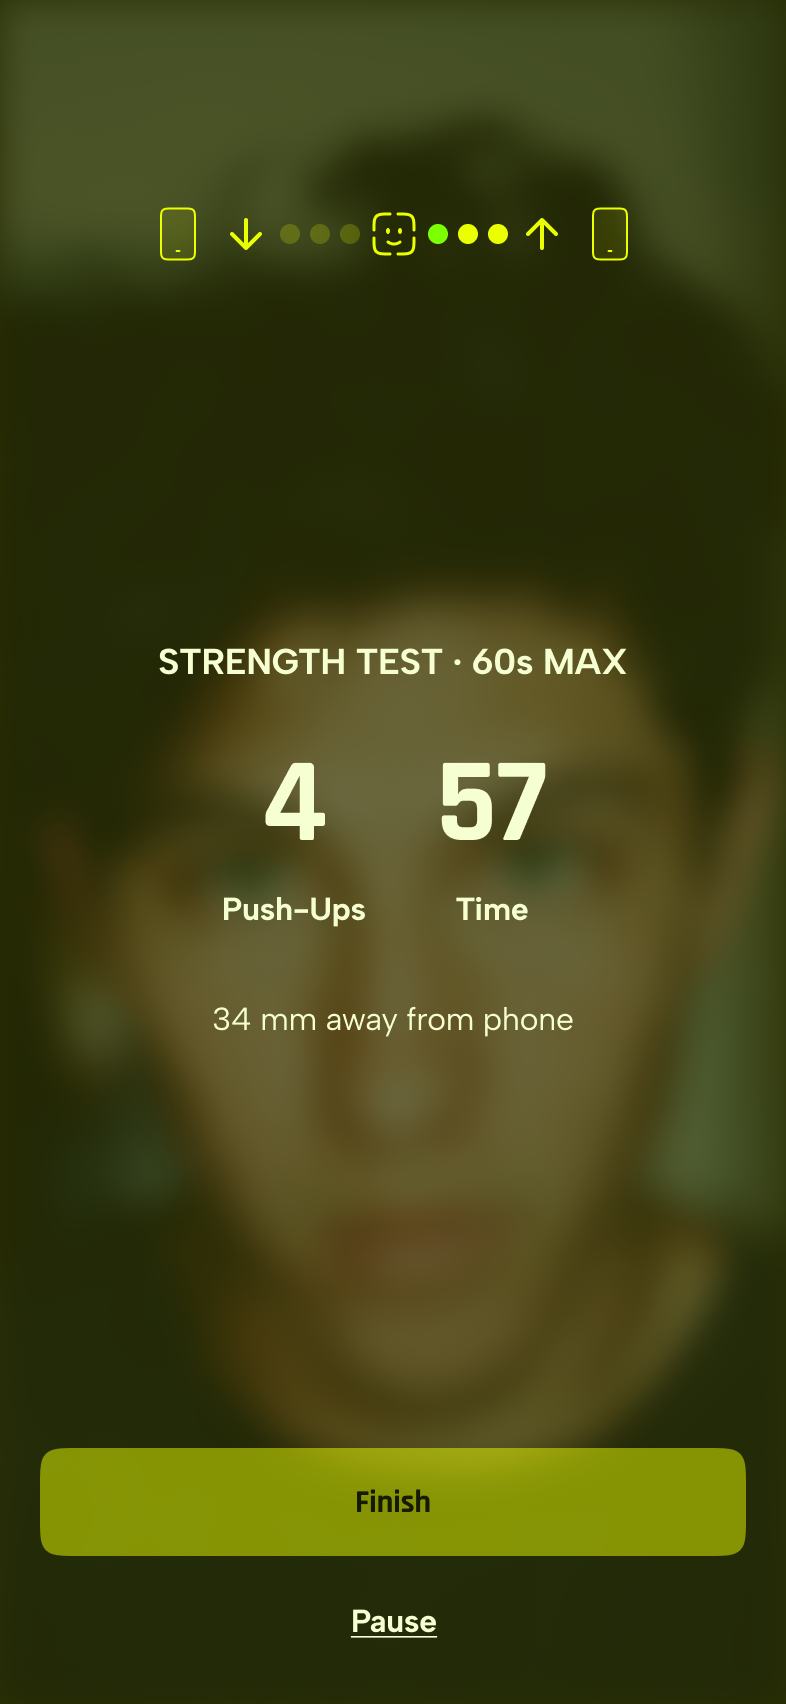
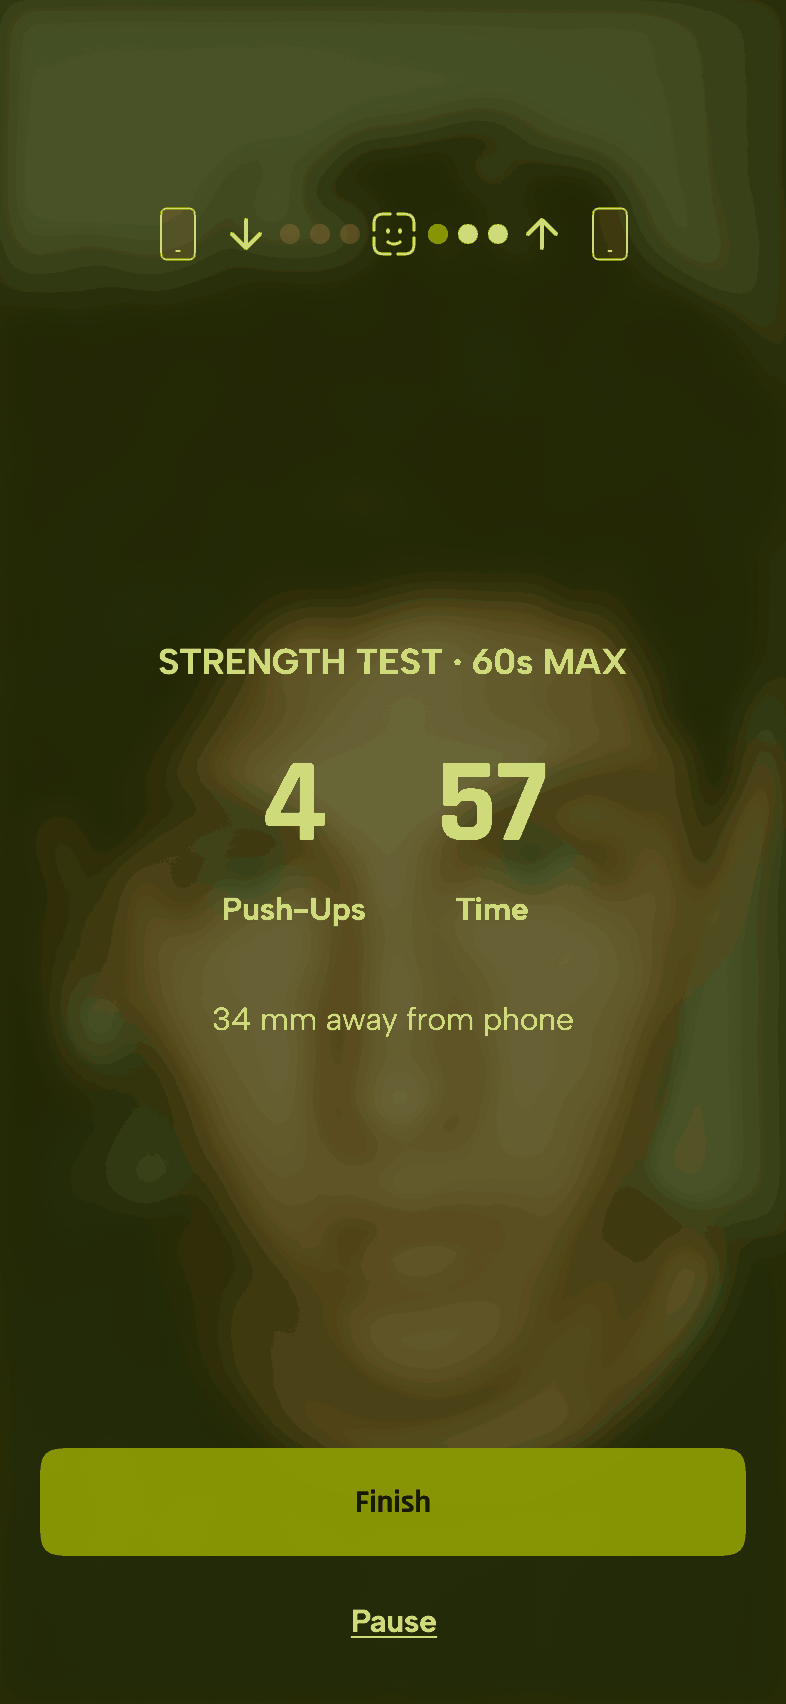
perf: shrink social and hero media, fix heading order, add robots.txt
Compress the OG image, banner, and left phone screenshot, drop unused heavy PNGs, and ship crawler rules so the landing page loads faster without changing the layout.

diff --git a/components/VideoShowcase.tsx b/components/VideoShowcase.tsx
@@ -73,9 +73,9 @@ export default function VideoShowcase() {
                   <span className="bg-[#C9E800] text-[#151A00] text-[10px] font-black px-2.5 py-0.5 rounded-[4px] uppercase tracking-wider inline-block mb-2">
                     ULTRATASKS
                   </span>
-                  <h3 className="font-display text-xl sm:text-2xl font-black text-white tracking-tight">
+                  <h2 className="font-display text-xl sm:text-2xl font-black text-white tracking-tight">
                     Take on the PowerPush 10K.
-                  </h3>
+                  </h2>
                   <p className="font-sans text-xs sm:text-sm font-semibold text-[#F8FFE6]/80 mt-1 max-w-[420px]">
                     10,000 reps. Form depth calibration and automatic rep
                     counting in full effect.
@@ -114,9 +114,9 @@ export default function VideoShowcase() {
                   <span className="bg-[#C9E800] text-[#151A00] text-[9px] font-black px-2 py-0.5 rounded-[4px] uppercase tracking-wider inline-block mb-1.5">
                     FREEREP
                   </span>
-                  <h4 className="font-display text-base sm:text-lg font-black text-white tracking-tight leading-snug">
+                  <h3 className="font-display text-base sm:text-lg font-black text-white tracking-tight leading-snug">
                     Sometimes you just want to keep going.
-                  </h4>
+                  </h3>
                 </motion.div>
               </div>
             </div>
@@ -149,9 +149,9 @@ export default function VideoShowcase() {
                   <span className="bg-[#C9E800] text-[#151A00] text-[9px] font-black px-2 py-0.5 rounded-[4px] uppercase tracking-wider inline-block mb-1.5">
                     SPEED TEST
                   </span>
-                  <h4 className="font-display text-base sm:text-lg font-black text-white tracking-tight leading-snug block">
+                  <h3 className="font-display text-base sm:text-lg font-black text-white tracking-tight leading-snug block">
                     EXPLOSIVE 20
-                  </h4>
+                  </h3>
                   <p className="font-sans text-xs font-semibold text-[#F8FFE6]/80 block mt-0.5">
                     Beat the clock.
                   </p>

diff --git a/components/Hero.tsx b/components/Hero.tsx
@@ -68,9 +68,9 @@ export default function Hero() {
 
         {/* Copy Block Section */}
         <div className="max-w-[780px] mx-auto space-y-4 text-[#151A00]">
-          <h3 className="text-sm md:text-base font-black tracking-wider uppercase">
+          <p className="text-sm md:text-base font-black tracking-wider uppercase">
             SMARTER PUSH-UP TRAINING.
-          </h3>
+          </p>
           <p className="text-sm md:text-base font-medium leading-relaxed text-[#151A00]/80">
             Set your phone down, hit the deck, and let computer vision track every clean rep.
             No manual logs, no broken counters, just pure daily output tuned to your strength.
@@ -159,6 +159,7 @@ export default function Hero() {
               <PhoneFrame
                 imageSrc="/assets/screens/screen-left.png"
                 alt="Strength Test Screen"
+                priority
               />
             </div>
             <div

diff --git a/components/MediaShowcase.tsx b/components/MediaShowcase.tsx
@@ -32,7 +32,7 @@ export default function MediaShowcase() {
 
         <div className="rounded-[4px] overflow-hidden relative max-w-[1280px] mx-auto mt-6 min-h-[22rem] sm:min-h-[28rem]">
           <Image
-            src="/assets/banner-showup.png"
+            src="/assets/banner-showup.webp"
             alt=""
             fill
             sizes="1280px"
